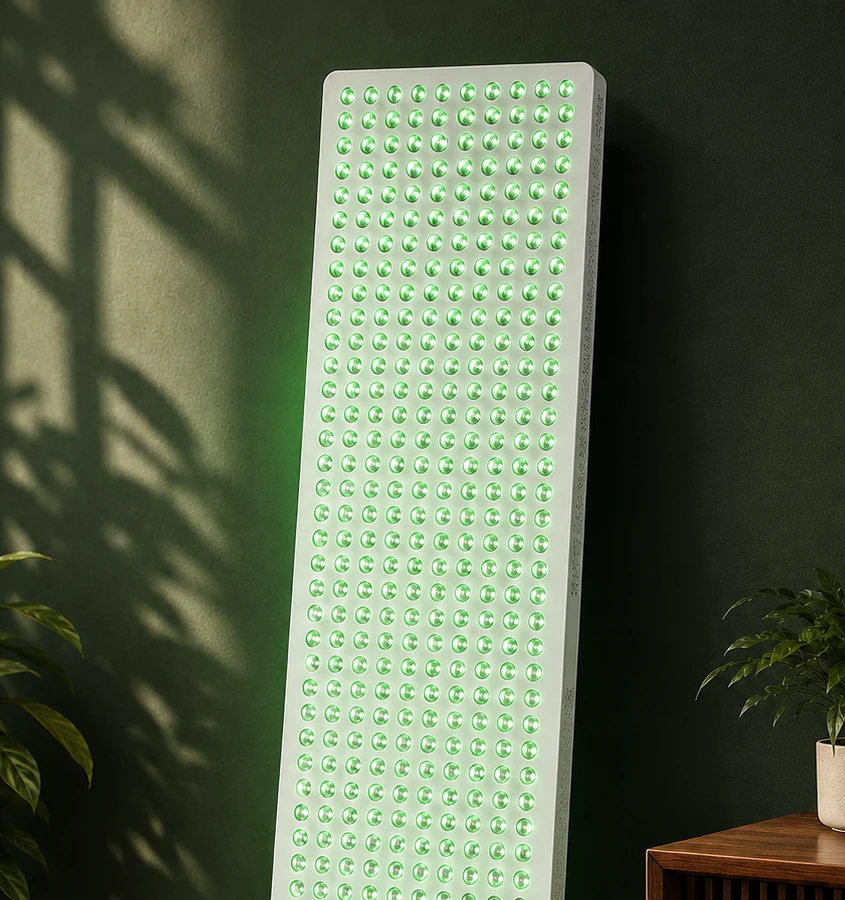
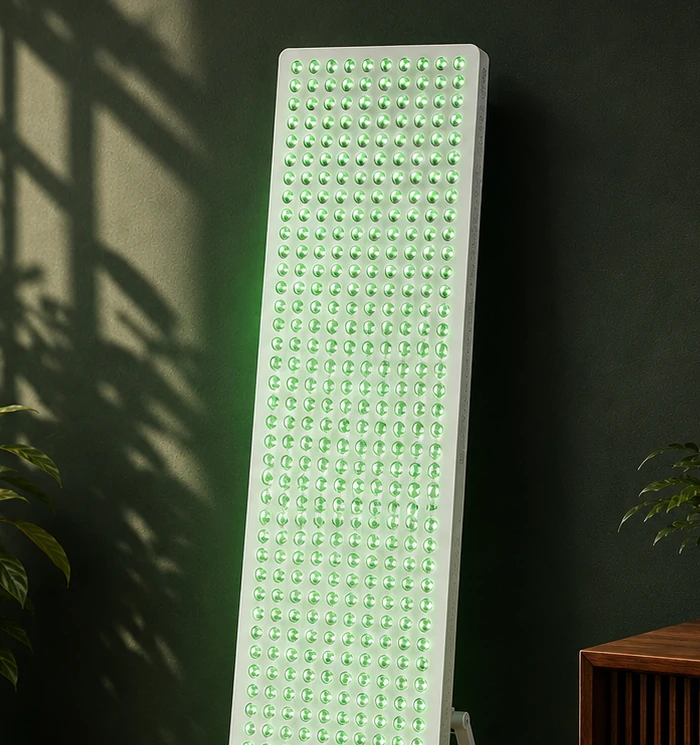
Update Studio Panel hero imagery
Swaps both Studio Panel room shots to derivatives of the new
large panel hero.png (1254x1254, 2.23 MB).

The new render is a better photograph: the panel stands upright on its
stand with a crisp top corner rather than leaning against the wall, and
the frame carries window daylight, two plants, the console, and green
light reflected off the wood floor.

PDP hero — the clear win. In the 4:3 hero box the previous render was cut
at both the top and the base, filling the frame edge to edge as a slab.
The new one shows the whole product standing in the room. Full frame,
1254x1254, 261 KB.

Shop card — adopted, but not full frame. The new render is a wider shot,
so its lit panel is only 18.8% of the frame width against 24.4% before;
dropped in whole it would have made the card worse. It is cropped instead
to 700x745 at (262,150), bringing the panel to 34% of the frame width,
matching the visual weight of the card it replaces while upgrading the
photograph. 97 KB. Its aspect ratio 0.940 still matches the widest card
box, so desktop renders it uncropped and narrower viewports trim only side
context — the panel top is never lost.

Crop chosen from four tightnesses rendered at true card size: 28% kept
more room but shrank the product, 38% thinned the context too far.

The cart thumbnail references studio-panel-hero.webp, so it picks up the
new photograph. Reference, price, SKU and behaviour are unchanged;
acknowledged and accepted.
[…]

diff --git a/tools/studio-panel-swap.js b/tools/studio-panel-swap.js
@@ -47,7 +47,7 @@ const HOLDER_FRONT = '#E0E0E0';  // studio shot, light grey backdrop
 /* Alt text, written after viewing each supplied render so it describes what is
    actually in frame. Three of the four show the panel unlit on a studio
    background; only the hero is lit and in a room setting. */
-const ALT_HERO = 'Calmlyte Studio Panel standing on its floor stand beside a wood console, its full green LED array lit';
+const ALT_HERO = 'Calmlyte Studio Panel standing on its floor stand in a room with a window and two potted plants, its full-height green LED array lit and casting green light across the wood floor';
 /* The card derivative is a tighter reframe of the hero, so its alt describes the
    closer view rather than repeating the full-room wording. */
 const ALT_CARD = 'Calmlyte Studio Panel lit against a deep green wall, its full-height green LED array facing into the room';
